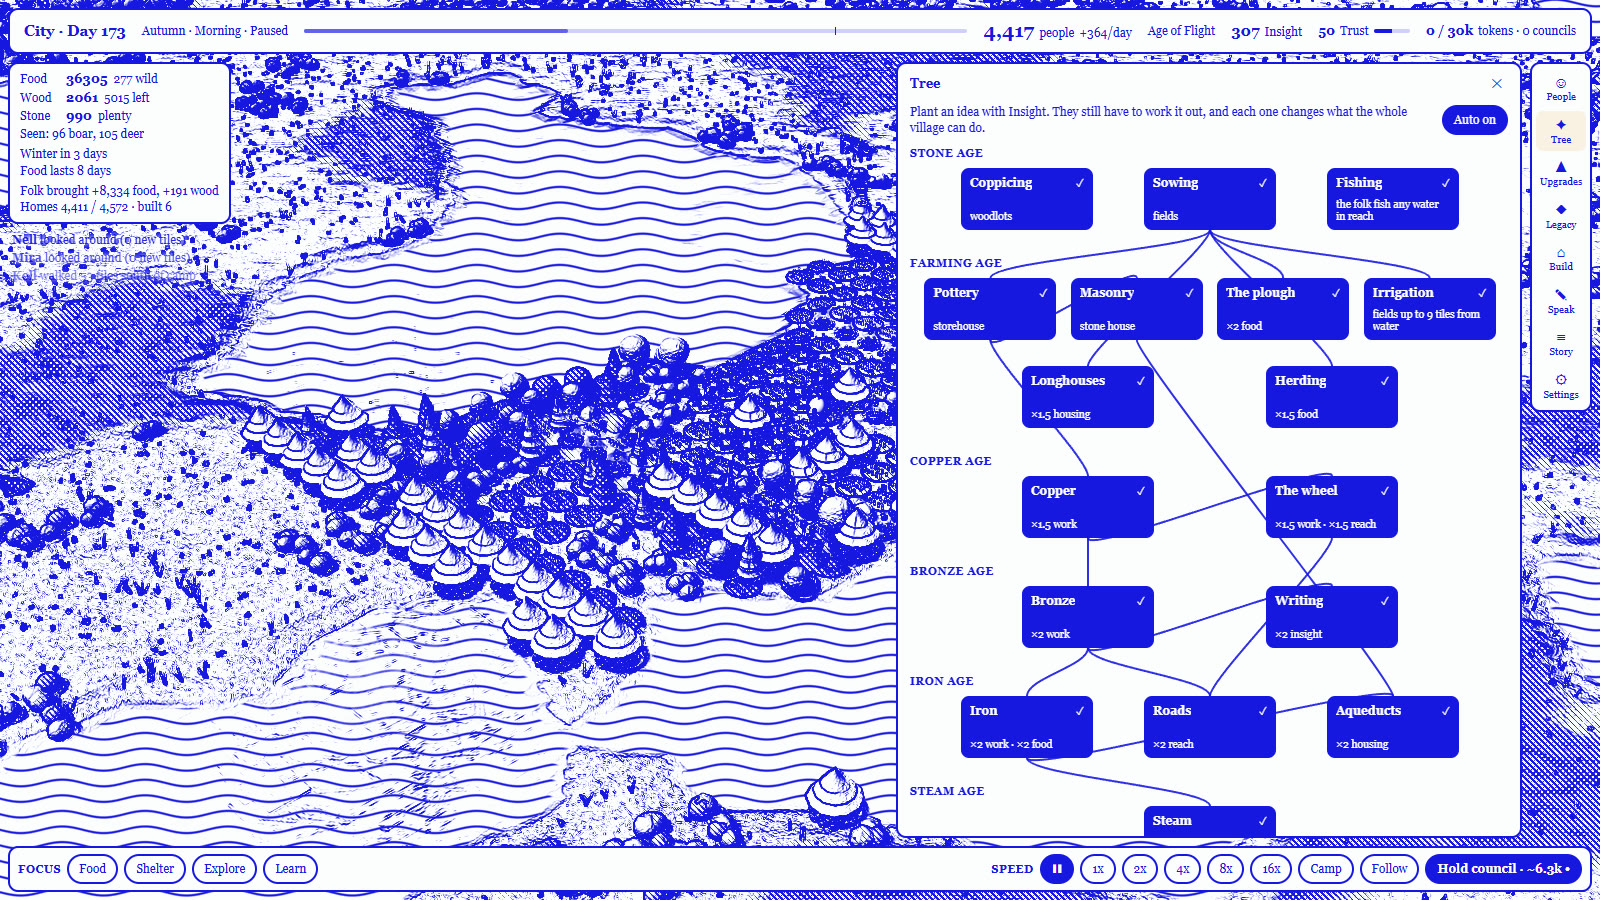
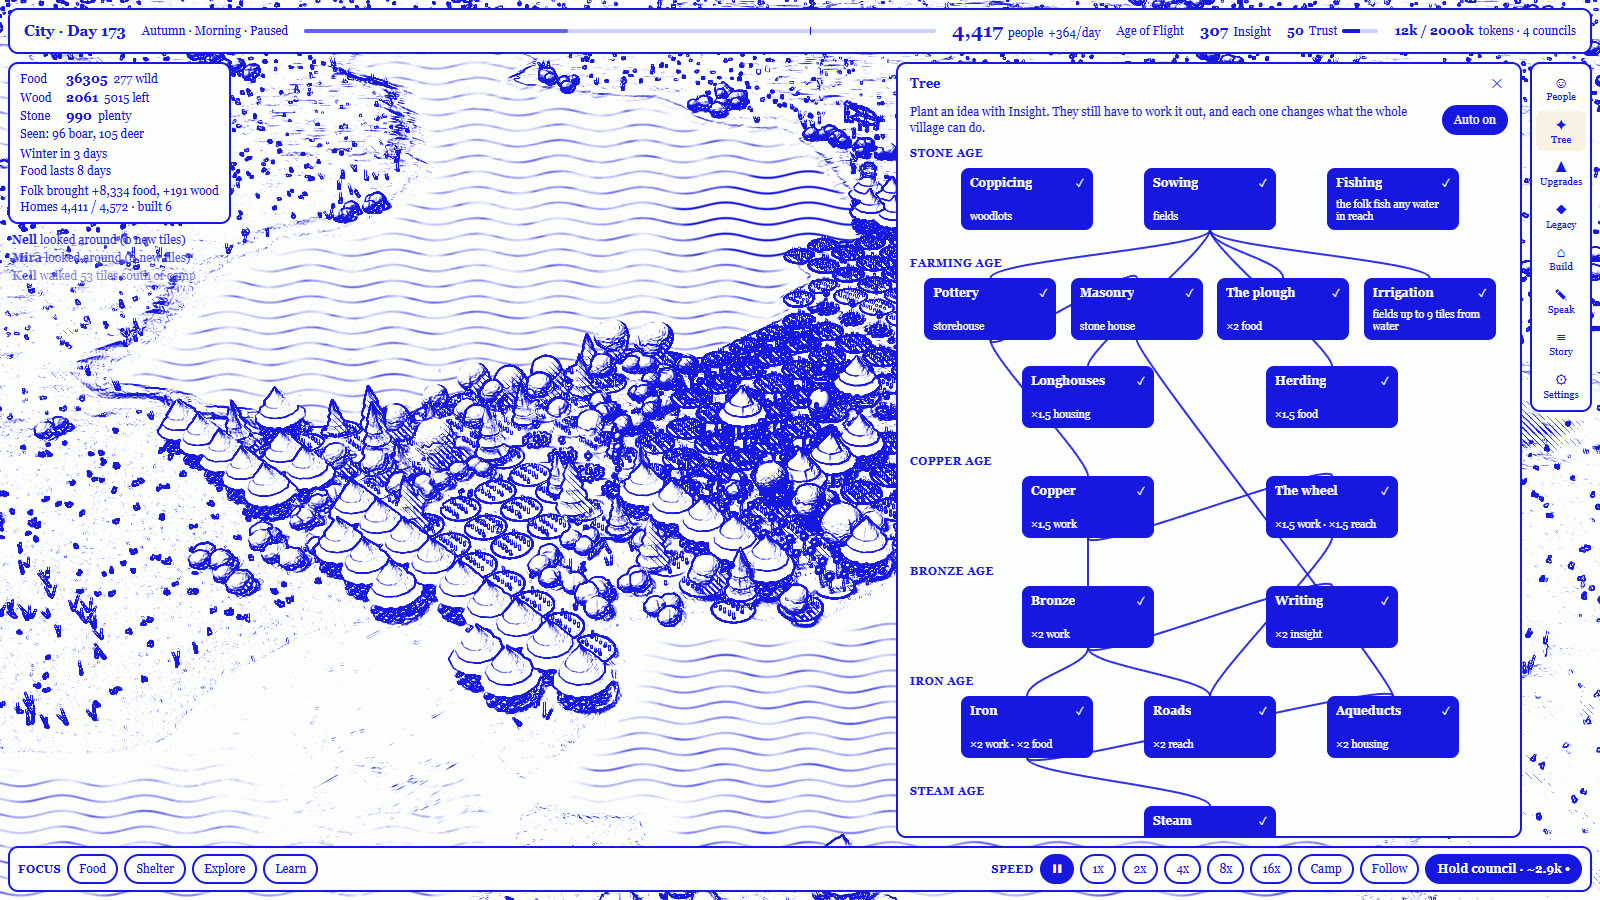
0.13.3: in the ink look, land once seen stays drawn; new screenshots

Changed region(s): [[0.0, 0.0, 1.0, 1.0], [0.9688, 0.28, 1.0, 0.3422], [0.9688, 0.2178, 1.0, 0.2489]]

diff --git a/web/src/scene.js b/web/src/scene.js
@@ -78,6 +78,7 @@ export function createScene(container, { onPick } = {}) {
 
   const buildings = new Map() // "kind@x,y" -> record
   let fireSpot = null
+  let ink = false
   // ---- fog of war: unknown land is dark, explored land is dim, and what villagers can see now is clear.
   // The day is resolved in advance, so tiles it will reveal stay dark until someone actually walks there.
   const fogChunks = new Map() // "cx,cy" -> { seen, vis, level } for every tile of that chunk
@@ -163,7 +164,8 @@ export function createScene(container, { onPick } = {}) {
       if (Math.hypot(x0 + CHUNK / 2 - tx, y0 + CHUNK / 2 - tz) > far) continue
       if (rec.any) theme.showChunk(rec.cx, rec.cy)
       for (let i = 0; i < rec.level.length; i++) {
-        const goal = rec.vis[i] ? 1 : rec.seen[i] ? 0.6 : 0 // unknown land shows nothing at all
+        // unknown land shows nothing at all; in the ink look, land once seen stays drawn
+        const goal = rec.vis[i] ? 1 : rec.seen[i] ? (ink ? 0.94 : 0.6) : 0
         rec.level[i] += (goal - rec.level[i]) * step
         const y = y0 + (i >> 4)
         const x = x0 + (i & (CHUNK - 1))
@@ -411,7 +413,6 @@ export function createScene(container, { onPick } = {}) {
 
   // ---- camera follow: clicking a card focuses and follows until deselected or the user drags
   let following = false
-  let ink = false
   let watching = true // default view drifts with the group until the user takes the camera
   const goal = new Vector3()
   const delta = new Vector3()

diff --git a/desktop/plugin.js b/desktop/plugin.js
@@ -33351,7 +33351,7 @@ ${shader.fragmentShader}`.replace("#include <dithering_fragment>", `#include <di
       tilt.forEach((p) => {
         p.enabled = !on;
       });
-      if (on) fogDark.value.setRGB(3, 3, 3);
+      if (on) fogDark.value.setRGB(1.4, 1.4, 1.4);
       else fogDark.value.setRGB(6e-3, 8e-3, 0.012);
       post.setInk(on);
     },
@@ -33436,6 +33436,7 @@ function createScene(container, { onPick } = {}) {
   let field = null;
   const buildings = /* @__PURE__ */ new Map();
   let fireSpot = null;
+  let ink = false;
   const fogChunks = /* @__PURE__ */ new Map();
   const lit = [];
   let fogRev = null;
@@ -33519,7 +33520,7 @@ function createScene(container, { onPick } = {}) {
       if (Math.hypot(x0 + CHUNK / 2 - tx, y0 + CHUNK / 2 - tz) > far) continue;
       if (rec.any) theme.showChunk(rec.cx, rec.cy);
       for (let i = 0; i < rec.level.length; i++) {
-        const goal2 = rec.vis[i] ? 1 : rec.seen[i] ? 0.6 : 0;
+        const goal2 = rec.vis[i] ? 1 : rec.seen[i] ? ink ? 0.94 : 0.6 : 0;
         rec.level[i] += (goal2 - rec.level[i]) * step;
         const y = y0 + (i >> 4);
         const x = x0 + (i & CHUNK - 1);
@@ -33776,7 +33777,6 @@ function createScene(container, { onPick } = {}) {
     update(w);
   }
   let following = false;
-  let ink = false;
   let watching = true;
   const goal = new Vector3();
   const delta = new Vector3();

diff --git a/web/src/themes/miniature.js b/web/src/themes/miniature.js
@@ -979,7 +979,7 @@ export function createMiniature({ renderer, scene, camera }) {
     render: tt => post.render(tt),
     setInk: on => {
       tilt.forEach(p => { p.enabled = !on })
-      if (on) fogDark.value.setRGB(3, 3, 3)
+      if (on) fogDark.value.setRGB(1.4, 1.4, 1.4)
       else fogDark.value.setRGB(0.006, 0.008, 0.012)
       post.setInk(on)
     },

diff --git a/README.md b/README.md
@@ -1,6 +1,6 @@
 # Hermes Incremental Village
 
-![A city of 4,417 people on day 173, drawn in blue ink: rows of houses and fields beside a lake](docs/images/city.jpg)
+![A city of 4,417 people on day 173, drawn in blue ink on white paper: rows of houses and fields beside a lake](docs/images/city.jpg)
 
 A 3D Stone Age village whose villagers are played by Hermes. It starts with three: Ash, Bryn and Coll.
 You are their guide, not their god: you give advice, and they decide what to do.
